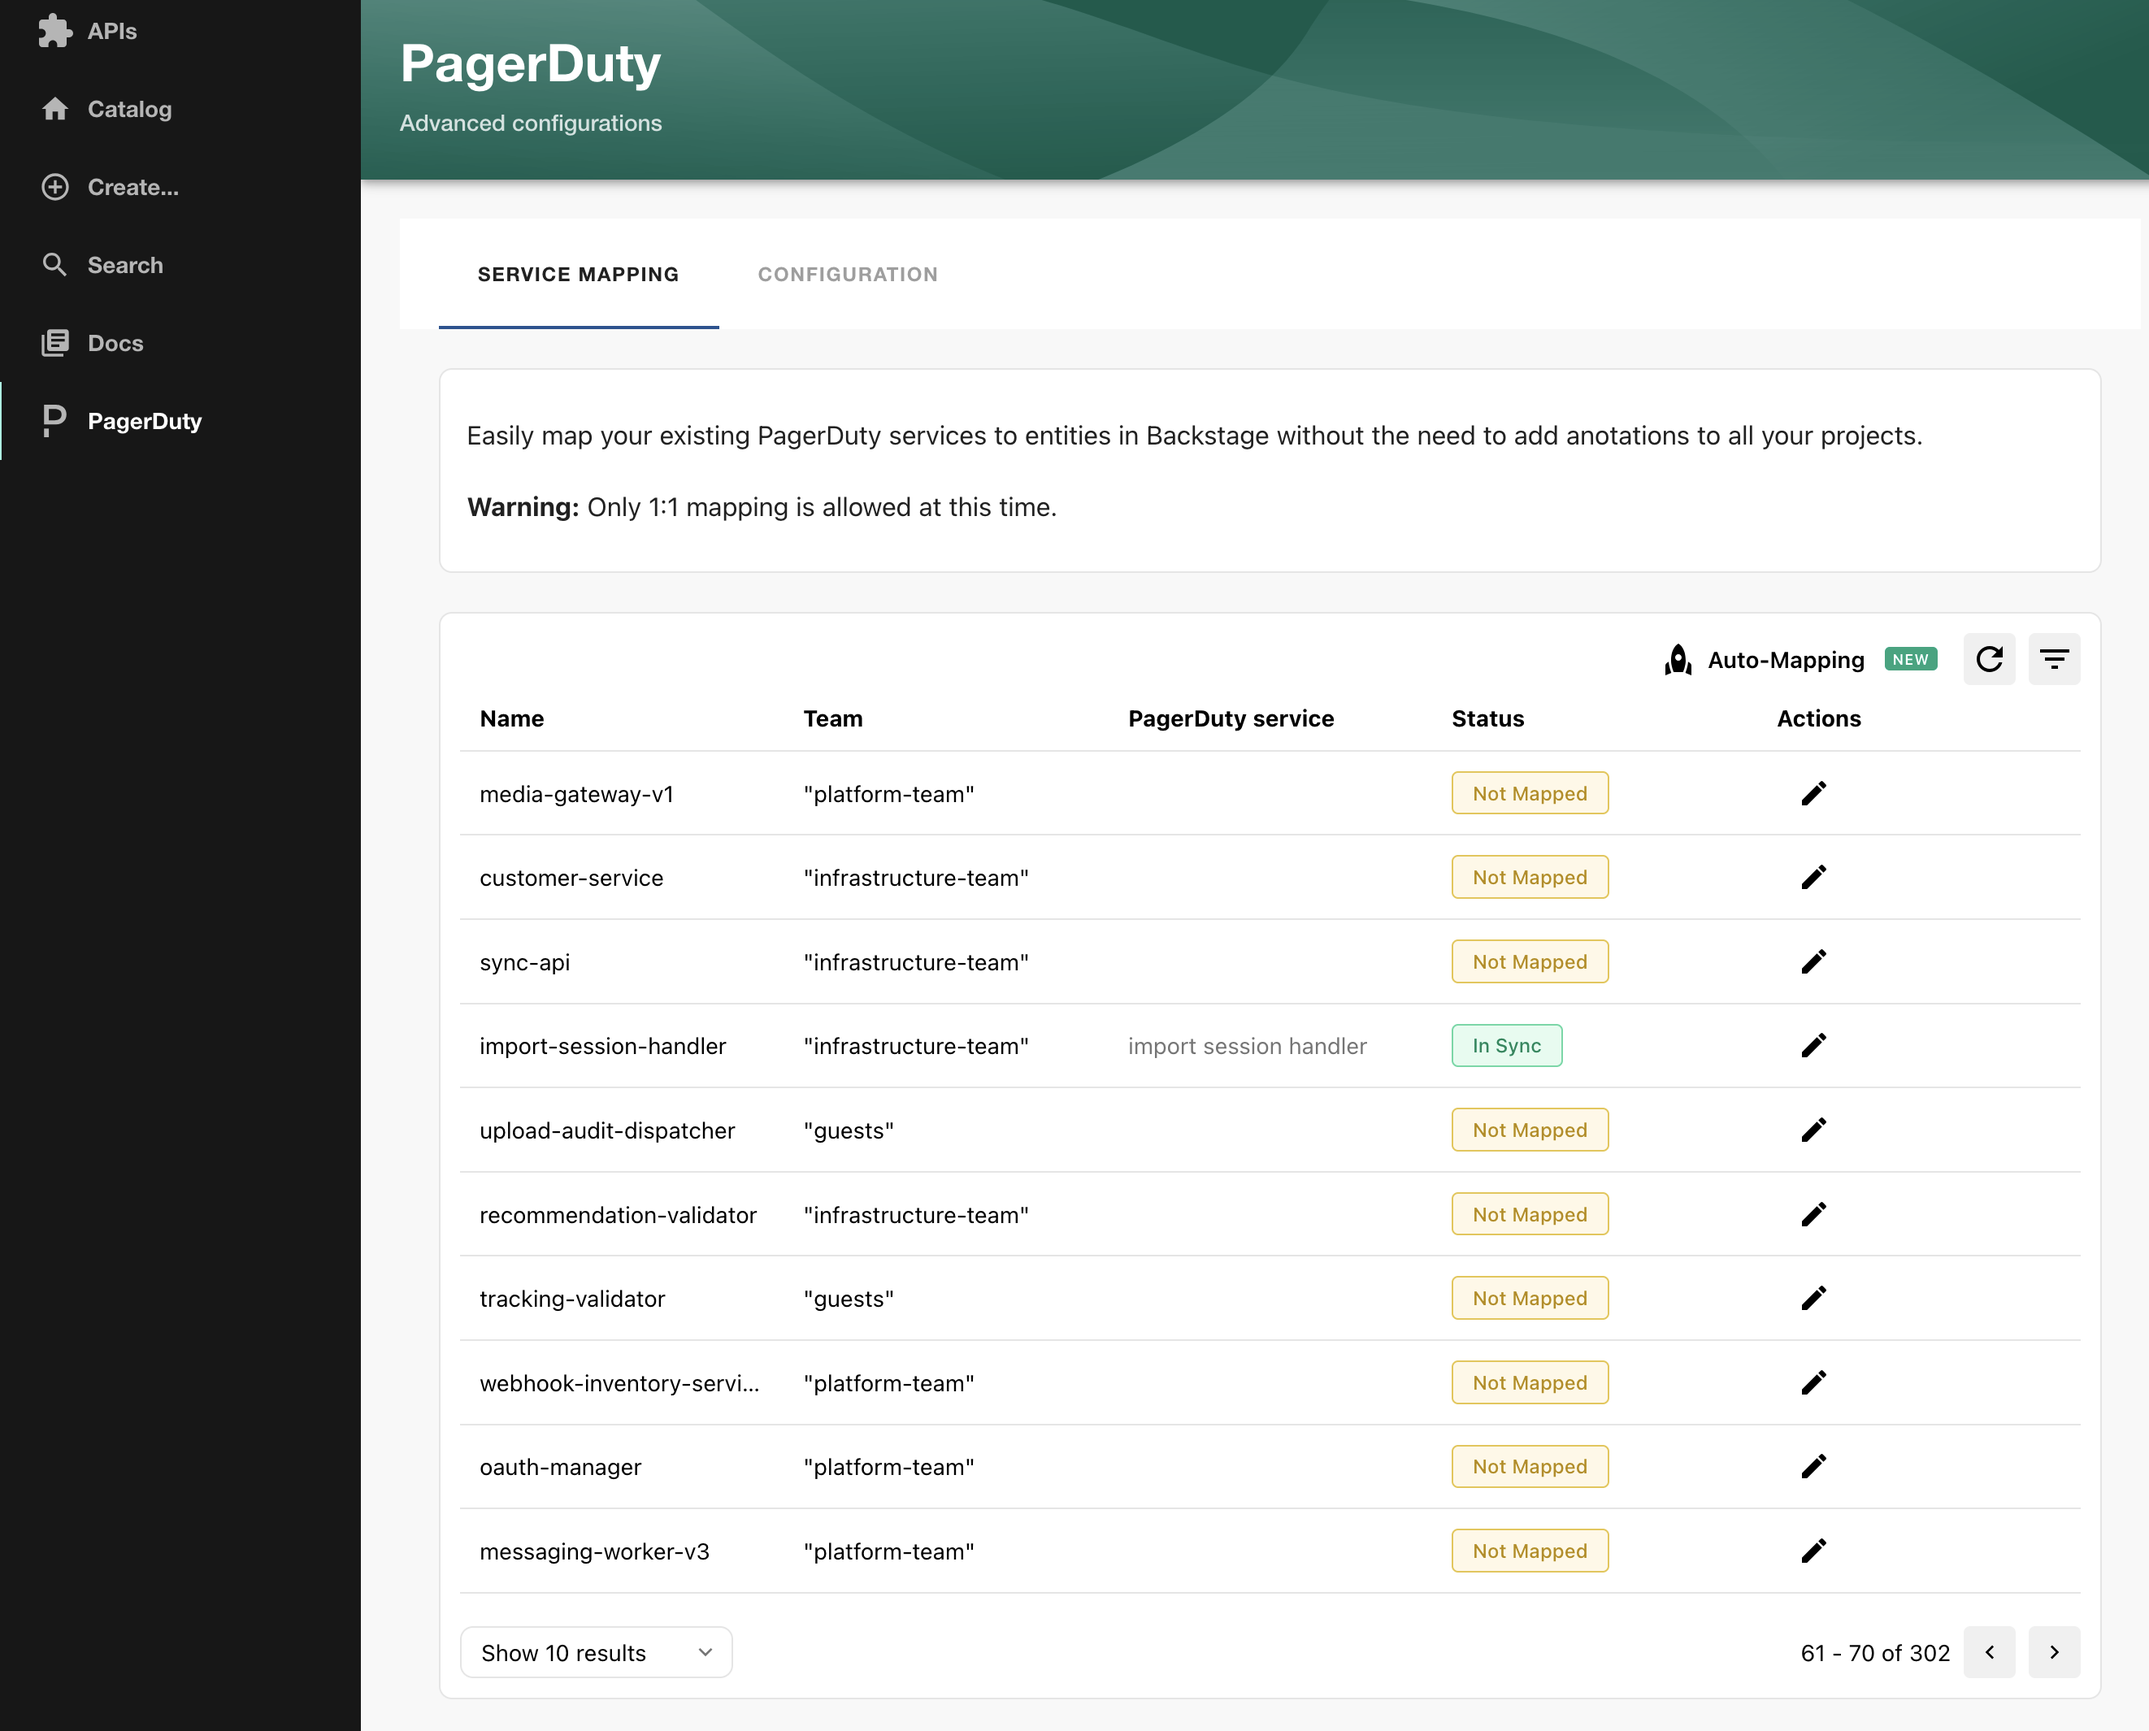
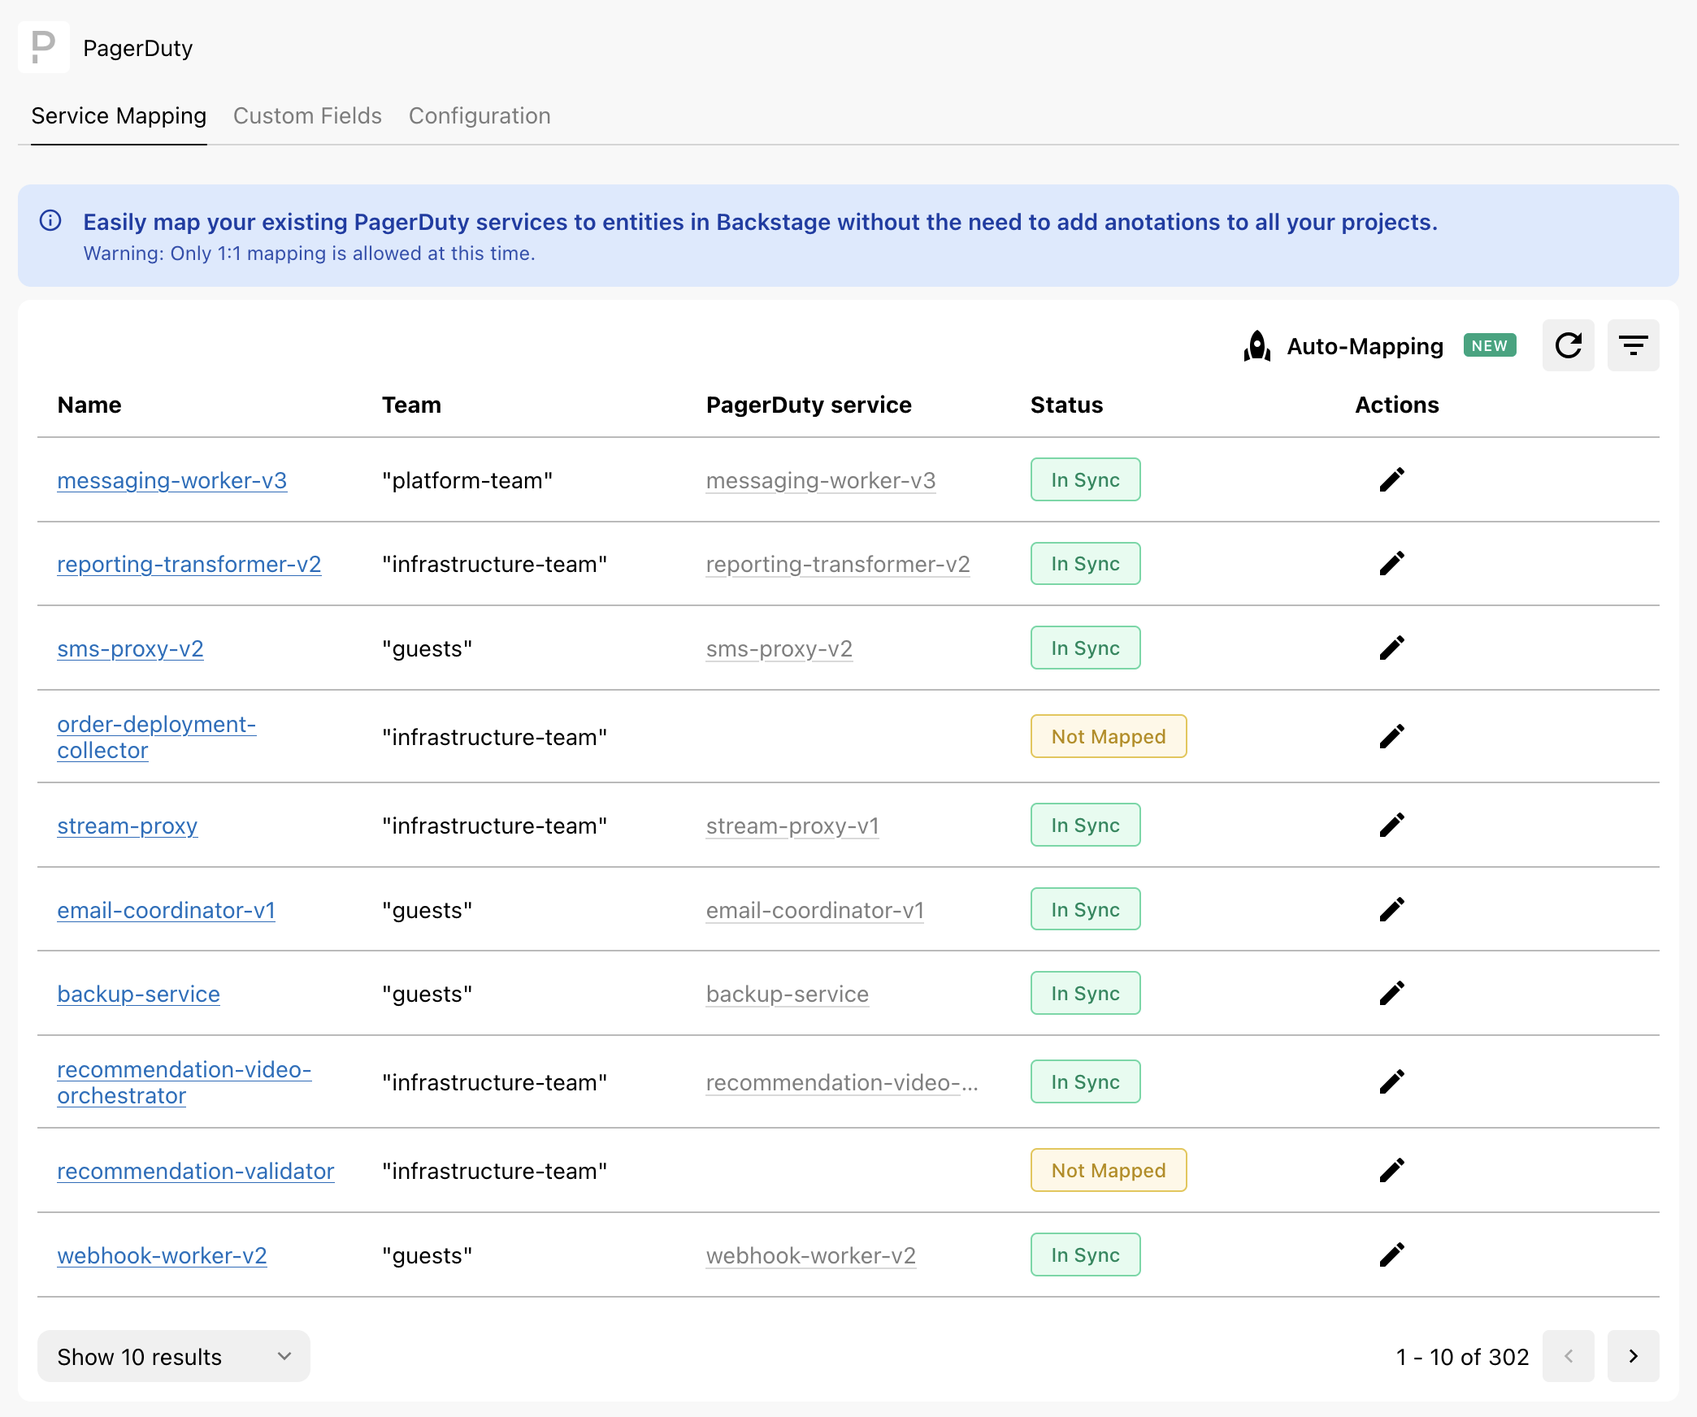
feat: DEVECO-539 Add custom field mapping documentation and update roadmap
Add new "Sync Backstage entity data to PagerDuty Custom Fields" section to capabilities with screenshot. Update roadmap to mark Service Custom Field Mapping as completed. Replace service entity mapping and dependency sync images with updated versions.

diff --git a/docs/capabilities.md b/docs/capabilities.md
@@ -69,6 +69,14 @@ The PagerDuty plugin allows users to keep service dependencies in sync between B
 
 This feature allows you to sync service dependencies from **Backstage to PagerDuty**, **PagerDuty to Backstage**, or **merge the dependencies from both sides**.
 
+### Sync Backstage entity data to PagerDuty Custom Fields
+
+The PagerDuty plugin for Backstage allows Admins to map Backstage entity properties to PagerDuty Custom Fields, keeping your PagerDuty services enriched with up-to-date context from your Backstage catalog.
+
+The mapping interface lets you define a field name and an entity path, so the right data — runbook links, team ownership, and more — flows automatically into PagerDuty during catalog processing.
+
+![custom-field-mapping](images/custom-field-mapping.png)
+
 ## Backend
 
 The backend plugin (`@pagerduty/backstage-plugin-backend`) enables additional security when using the PagerDuty APIs and enables easy adoption of PagerDuty best practices through custom Backstage Scaffolder actions.

diff --git a/docs/index.md b/docs/index.md
@@ -63,7 +63,7 @@ We are working on some cool new features and capabilities. Here are some of them
 - [x] Adding support for multiple PagerDuty accounts in the same Backstage instance
 - [x] Enabling service dependency sync between Backstage and PagerDuty
 - [x] Service Mapping
-- [ ] Service Custom Field Mapping
+- [x] Service Custom Field Mapping
 - [ ] Runbook Automation integration
 
 For more details on what is in progress and what we are considering refer to the [project page](https://github.com/orgs/PagerDuty/projects/22) on GitHub.
